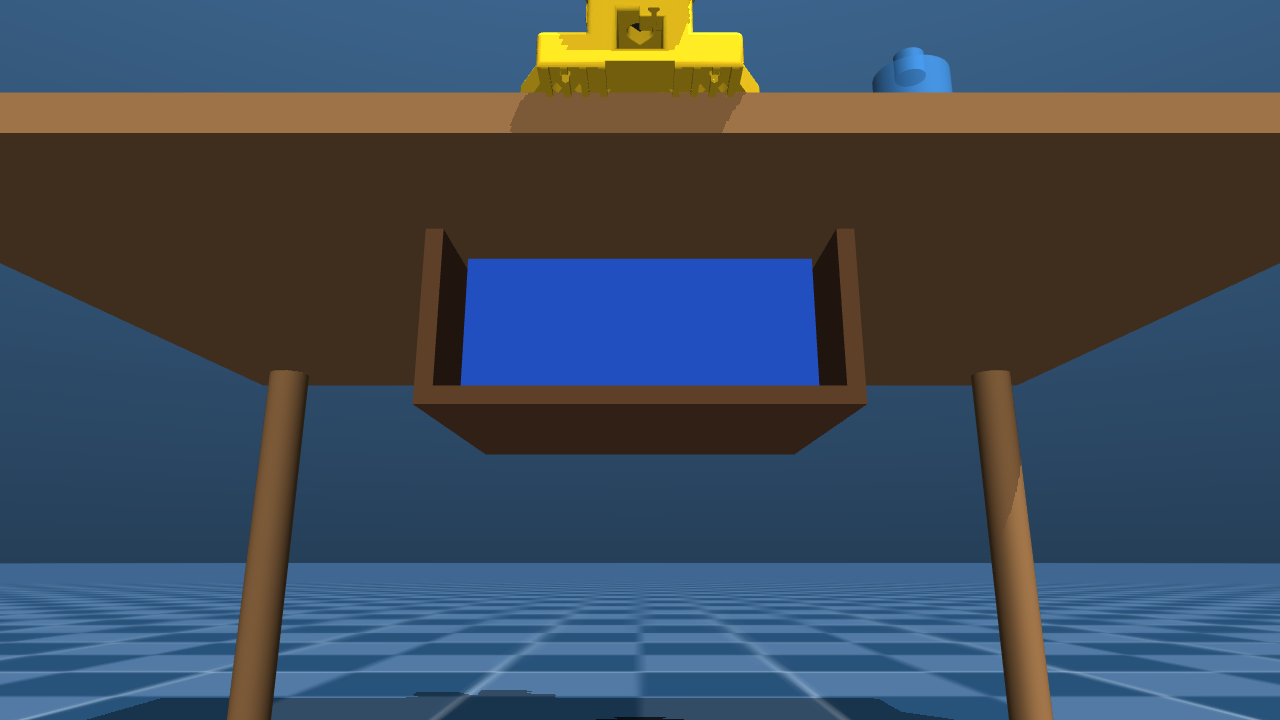
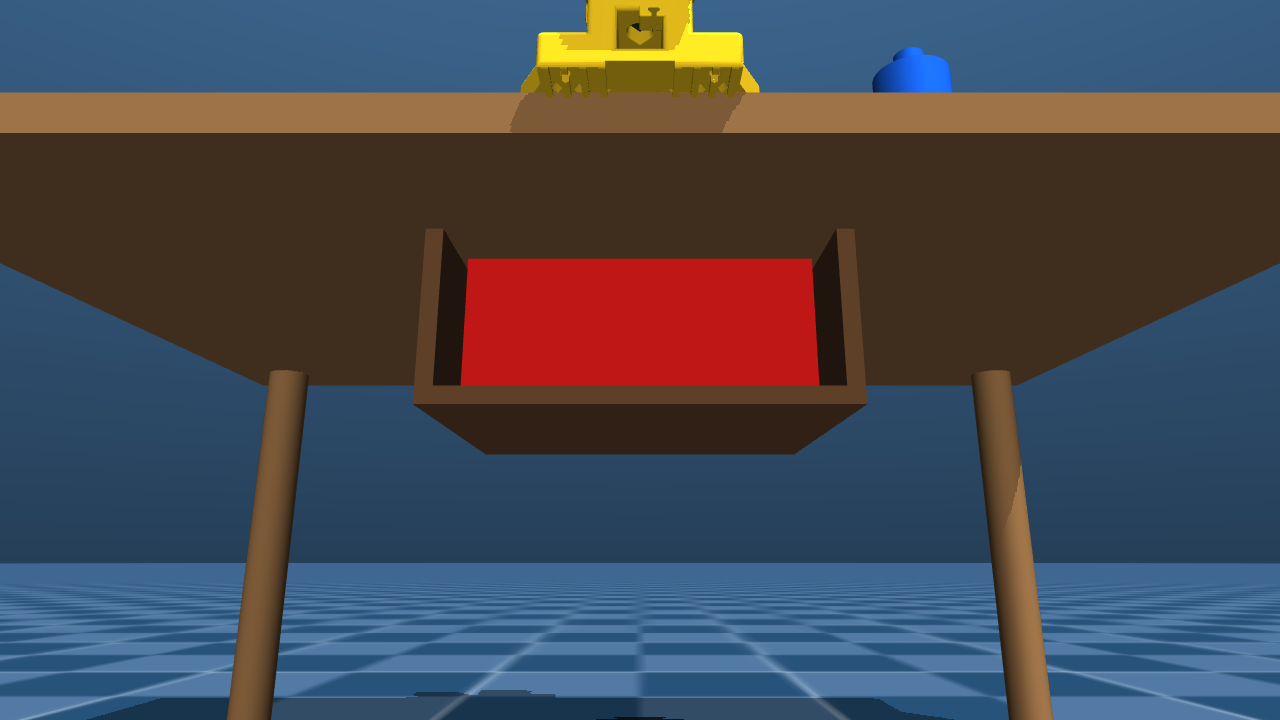
M02 color pass: distinct high-contrast palette for demo clarity.

Changed region(s): [[0.3438, 0.3361, 0.6562, 0.55], [0.6875, 0.0611, 0.75, 0.1528]]

diff --git a/scripts/gen_dual_scene.py b/scripts/gen_dual_scene.py
@@ -352,19 +352,30 @@ TEMPLATE = """<?xml version="1.0"?>
     <!-- Furniture / prop materials (ours, not upstream) -->
     <material name="table_material" rgba="0.55 0.40 0.25 1"/>
     <material name="drawer_material" rgba="0.42 0.28 0.18 1"/>
-    <!-- drawer_box_material: distinct blue for the drawer box itself (M02
-         drawer_view fix, defect 2). It previously shared drawer_material
-         (brown) with the static housing, so a single still frame could not
-         be read as open or closed -- only a before/after pair was legible.
-         Blue, not red, to stay visually distinct from mug_material below
-         (0.75 0.15 0.15, red) elsewhere in the same scene. -->
-    <material name="drawer_box_material" rgba="0.15 0.35 0.85 1"/>
+    <!-- M02 colour pass: the palette grew one object at a time (drawer_box
+         went blue in 9860072 to separate it from its brown housing; the mug
+         was independently red) and ended up with two blues (drawer_box vs.
+         water_bottle) that a still frame or cover image cannot tell apart.
+         This block is one deliberate, whole-palette pass instead of another
+         one-off patch: every prop gets a distinct, saturated, high-contrast
+         colour, chosen so no two props (and no prop vs. the brown
+         table/drawer housing) share a hue. drawer_box_material is now RED
+         (it previously borrowed the "distinct from brown housing" blue that
+         the bottle also used); mug_material/mug_handle_material move from
+         red to GREEN so they no longer collide with drawer_box_material;
+         bottle_material becomes an opaque, saturated BLUE (dropping the old
+         0.55 alpha -- partial transparency let the table colour bleed
+         through and hurt colour-only identification, which is the explicit
+         bar for this pass). plate_material (off-white) and
+         fork_material/spoon_material (silver-grey) already matched the
+         target palette and are unchanged. -->
+    <material name="drawer_box_material" rgba="0.85 0.10 0.10 1"/>
     <material name="plate_material" rgba="0.92 0.92 0.88 1"/>
-    <material name="mug_material" rgba="0.75 0.15 0.15 1"/>
-    <material name="mug_handle_material" rgba="0.75 0.15 0.15 1"/>
+    <material name="mug_material" rgba="0.10 0.75 0.20 1"/>
+    <material name="mug_handle_material" rgba="0.10 0.75 0.20 1"/>
     <material name="fork_material" rgba="0.72 0.73 0.76 1"/>
     <material name="spoon_material" rgba="0.72 0.73 0.76 1"/>
-    <material name="bottle_material" rgba="0.25 0.55 0.85 0.55"/>
+    <material name="bottle_material" rgba="0.10 0.40 0.95 1"/>
 
     <!-- SO-101 meshes and part materials, referenced by BOTH arm copies below.
          Shared, not duplicated, because mesh geometry is not per-instance data
